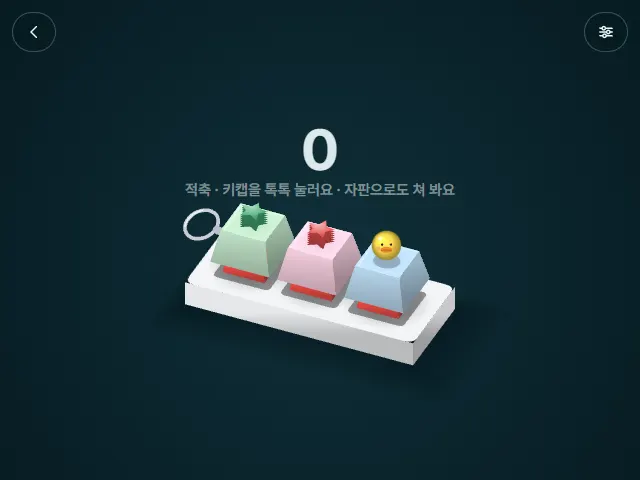
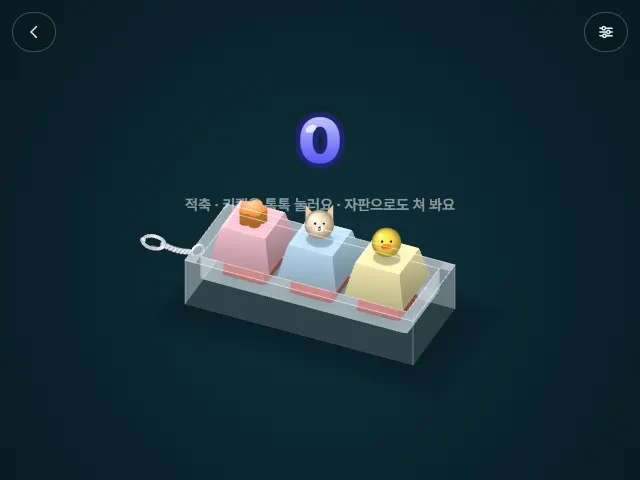
말랑이 점도 3배 · 키캡을 투명 아크릴 케이스에 앉히고 키링을 길게
- 말랑이와 왁뿌의 점도를 세 배로 — 감쇠 21, 슬로우 라이징 7.2초. 눌린 자리가 한참 남는다
- 케이스를 투명 아크릴로 바꾸고 벽이 캡의 아랫부분을 감싸도록. 앞쪽 껍데기는 캡보다 나중에 그려 감싸는 깊이가 보인다
- 스위치를 사진대로 — 우유빛 받침 + 십자 스템 + 맑은 덮개. 받침이 축 색이라 캡 아래 띠로 어떤 축인지 보인다
- 키링을 고리·볼 체인 여덟 알·랍스터 클래스프로 길게

Changed region(s): [[0.2188, 0.2188, 0.7188, 0.7812]]

diff --git a/lib/engines/KeycapEngine.ts b/lib/engines/KeycapEngine.ts
@@ -37,8 +37,12 @@ const SWITCH_NAME: Record<SwitchKind, string> = { red: "적축", blue: "청축",
 // 오블리크 투영 — 카메라가 앞·오른쪽·위에서 본다
 const TH = 0.42, CT = Math.cos(TH), ST = Math.sin(TH), FL = 0.6;
 // 키 하나의 치수 (키 간격 = 1)
-const CAP_B = 0.44, CAP_T = 0.33, CAP_H = 0.4, CAP_Z = 0.2, TRAVEL = 0.15;
+const CAP_B = 0.44, CAP_T = 0.33, CAP_H = 0.4, CAP_Z = 0.24, TRAVEL = 0.12;
 const CASE_H = 0.3, CASE_PAD = 0.2;
+/** 케이스 벽이 바닥판 위로 솟은 높이 — 이만큼 키캡을 감싼다 (2026-09-13 사용자 사진) */
+const RIM = 0.3;
+/** 투명 아크릴 — 축이 비쳐 보이라고 케이스를 통째로 이 재질로 (2026-09-13 사용자) */
+const ACRYL = "#dfe9f0";
 
 export const createKeycapEngine: EngineFactory = (canvas, ctx0) => {
   const c = createCanvas2D(canvas);
@@ -58,7 +62,6 @@ export const createKeycapEngine: EngineFactory = (canvas, ctx0) => {
   }
   let keys: Key[] = [];
   let cols = 1, rows = 1, S = 80, cx = 0, cy = 0;
-  let caseColor = "#f4f5f7";
   let total = 0;
   let ledMix = led ? 1 : 0;
   const waves: Wave[] = [];
@@ -106,7 +109,6 @@ export const createKeycapEngine: EngineFactory = (canvas, ctx0) => {
   };
   const shuffle = () => {
     keys = [];
-    caseColor = pick(["#f4f5f7", "#f4f5f7", "#22262b", "rgba(230,240,246,0.55)"]);
     setCount(count);
   };
   const fit = () => {
@@ -186,6 +188,11 @@ export const createKeycapEngine: EngineFactory = (canvas, ctx0) => {
     const [r, g, b] = rgbOf(col);
     return `rgba(${clamp(r * k, 0, 255) | 0},${clamp(g * k, 0, 255) | 0},${clamp(b * k, 0, 255) | 0},${a})`;
   };
+  /** 축 색을 우유빛에 섞는다 — 받침처럼 "무슨 축인지" 만 알려 주면 되는 자리 */
+  const milky = (col: string, t: number) => {
+    const A = rgbOf(col), B = rgbOf("#f7fafc");
+    return `rgb(${lerp(A[0], B[0], t) | 0},${lerp(A[1], B[1], t) | 0},${lerp(A[2], B[2], t) | 0})`;
+  };
   const path = (pts: [number, number][]) => { ctx.beginPath(); pts.forEach((p, i) => (i === 0 ? ctx.moveTo(p[0], p[1]) : ctx.lineTo(p[0], p[1]))); ctx.closePath(); };
   const quad = (pts: [number, number][], fill: string | CanvasGradient) => { path(pts); ctx.fillStyle = fill; ctx.fill(); };
   /** 위→아래로 옅게 어두워지는 옆면 — 평면 한 색보다 둥글게 읽힌다 */
@@ -220,6 +227,19 @@ export const createKeycapEngine: EngineFactory = (canvas, ctx0) => {
     ctx.globalAlpha = 1;
     return { T, B };
   };
+  /** 직사각 기둥 — 위아래 같은 굵기. 십자 스템의 두 막대에 쓴다 */
+  const boxPrism = (x: number, y: number, z0: number, wx: number, wy: number, h: number, col: string, alpha = 1) => {
+    const B = [P(x - wx, y - wy, z0), P(x + wx, y - wy, z0), P(x + wx, y + wy, z0), P(x - wx, y + wy, z0)];
+    const T = [P(x - wx, y - wy, z0 + h), P(x + wx, y - wy, z0 + h), P(x + wx, y + wy, z0 + h), P(x - wx, y + wy, z0 + h)];
+    ctx.globalAlpha = alpha;
+    quad([B[0], B[1], T[1], T[0]], shade(col, 0.95));
+    quad([B[0], B[3], T[3], T[0]], shade(col, 0.9));
+    quad([B[1], B[2], T[2], T[1]], shade(col, 0.72));
+    quad([B[3], B[2], T[2], T[3]], shade(col, 0.86));
+    quad(T, shade(col, 1.06));
+    ctx.globalAlpha = 1;
+  };
+
   const roundRectPath = (g: CanvasRenderingContext2D, x: number, y: number, w: number, h: number, r: number) => {
     g.beginPath(); g.moveTo(x + r, y); g.lineTo(x + w - r, y); g.quadraticCurveTo(x + w, y, x + w, y + r);
     g.lineTo(x + w, y + h - r); g.quadraticCurveTo(x + w, y + h, x + w - r, y + h); g.lineTo(x + r, y + h);
@@ -306,22 +326,36 @@ export const createKeycapEngine: EngineFactory = (canvas, ctx0) => {
       g.fillStyle = "#3a2a24"; g.beginPath(); g.arc(-s * 0.12, -s * 0.02, s * 0.04, 0, TAU); g.arc(s * 0.12, -s * 0.02, s * 0.04, 0, TAU); g.arc(0, s * 0.1, s * 0.045, 0, TAU); g.fill();
     }
   };
-  /** 스위치 — 하우징(우유빛 상자) + 축 색 스템 (+ 스프링). 캡 아래 틈으로 보인다 */
-  const drawSwitch = (k: Key, press: number, full: boolean) => {
+  /**
+   * 스위치 — 사용자 사진(체리 MX 계열)을 따른다.
+   *   · 아랫집: 우유빛 불투명 받침 + 금속 접점 한 조각
+   *   · **십자 스템**: 축 색 막대 둘을 겹쳐 + 모양. 캡 밑까지 길게 올라간다
+   *   · 윗집: **맑은 덮개**를 스템 위에 반투명으로 덮는다 — 그래야 색이 비쳐 어떤 축인지 보인다 (2026-09-13 사용자)
+   */
+  const drawSwitch = (k: Key, press: number) => {
     const stemCol = SWITCH_COLOR[sw];
-    if (full) {
-      frustum(k.gx, k.gy, 0.02, 0.3, 0.28, 0.12, sw === "topre" ? "#f1eef8" : "#e9eef1", 0.9);
-      const [sx, sy] = P(k.gx, k.gy, 0.14);
-      for (let j = 0; j < 3; j++) { ctx.strokeStyle = "rgba(120,130,140,0.55)"; ctx.lineWidth = 1; ctx.beginPath(); ctx.ellipse(sx, sy - j * S * 0.03 - S * 0.02, S * 0.1, S * 0.035, 0, 0, TAU); ctx.stroke(); }
-    }
-    // 불투명 캡 아래에서는 하우징 자체를 축 색으로 — 캡과 케이스 사이 틈으로 색이 보인다 (2026-09-12 사용자: 축 색이 보여야)
-    if (!full) frustum(k.gx, k.gy, 0.02, 0.31, 0.29, 0.12, sw === "topre" ? "#efe8fb" : shade(stemCol, 1.12), 1);
-    const zt = CAP_Z + 0.06 - press * TRAVEL;
+    const zt = CAP_Z + 0.08 - press * TRAVEL;
+    // 받침 — 축 색을 섞은 우유빛. 캡 아래로 이 띠가 보여 어떤 축인지 알 수 있다 (2026-09-13 사용자)
+    boxPrism(k.gx, k.gy, 0.005, 0.3, 0.3, 0.14, milky(stemCol, 0.04), 1);
+    // 금속 접점 — 받침 안에서 반짝
+    const [mx, my] = P(k.gx - 0.1, k.gy + 0.04, 0.145);
+    ctx.fillStyle = "rgba(196, 204, 212, 0.9)";
+    ctx.fillRect(mx - S * 0.03, my - S * 0.05, S * 0.06, S * 0.05);
     if (sw === "topre") {
-      const [dx, dy] = P(k.gx, k.gy, 0.1);
+      const [dx, dy] = P(k.gx, k.gy, 0.2);
       ctx.fillStyle = stemCol; ctx.beginPath(); ctx.ellipse(dx, dy - S * 0.05, S * 0.2, S * 0.16, 0, 0, TAU); ctx.fill();
       ctx.fillStyle = "rgba(255,255,255,0.25)"; ctx.beginPath(); ctx.ellipse(dx - S * 0.06, dy - S * 0.1, S * 0.07, S * 0.04, 0, 0, TAU); ctx.fill();
-    } else frustum(k.gx, k.gy, 0.1, 0.13, 0.12, zt - 0.1, stemCol, 1);
+    } else {
+      const h = Math.max(0.04, zt - 0.145);
+      boxPrism(k.gx, k.gy, 0.145, 0.17, 0.055, h, stemCol, 1);
+      boxPrism(k.gx, k.gy, 0.145, 0.055, 0.17, h, stemCol, 1);
+    }
+    // 맑은 덮개 — 스템 색이 비친다. 너무 짙으면 축 색이 사라지니 아주 옅게
+    boxPrism(k.gx, k.gy, 0.14, 0.29, 0.29, 0.1, "#eaf1f5", 0.28);
+    const [ex, ey] = P(k.gx - 0.29, k.gy - 0.29, 0.185);
+    const [ex2] = P(k.gx + 0.29, k.gy - 0.29, 0.185);
+    ctx.strokeStyle = "rgba(255,255,255,0.65)"; ctx.lineWidth = Math.max(1, S * 0.012);
+    ctx.beginPath(); ctx.moveTo(ex, ey); ctx.lineTo(ex2, ey); ctx.stroke();
   };
 
   const hueOf = (i: number, t: number) => (t * 40 + i * 30) % 360;
@@ -404,24 +438,44 @@ export const createKeycapEngine: EngineFactory = (canvas, ctx0) => {
     // 숫자 아래에는 축 이름만 — "번 눌렀어요" 는 숫자와 떨어져 있어 어색했다 (2026-09-13 사용자)
     ctx.fillText(total === 0 ? `${SWITCH_NAME[sw]} · 키캡을 톡톡 눌러요 · 자판으로도 쳐 봐요` : SWITCH_NAME[sw], c.w / 2, topY + baseSize * 0.72 + 14);
 
-    // 케이스
+    /*
+     * 케이스 — **투명 아크릴**. 바닥판(z 0) 위로 벽이 RIM 만큼 솟아 키캡의 아랫부분을 감싼다.
+     * 뒤·왼쪽 껍데기는 키캡보다 먼저, 앞·오른쪽 껍데기는 **키캡보다 나중에** 그린다 — 그래야 캡이 케이스 안에
+     * 들어앉은 것으로 보이고, 반투명이라 그 너머로 스위치와 캡 밑동이 비친다 (2026-09-13 사용자).
+     */
     const hx = cols / 2 + CASE_PAD, hy = rows / 2 + CASE_PAD;
-    const clearCase = caseColor.startsWith("rgba");
+    const ihx = cols / 2 + 0.04, ihy = rows / 2 + 0.04;
+    const wallY = (y: number, x0: number, x1: number, za: number, zb: number, fill: string) => quad([P(x0, y, za), P(x1, y, za), P(x1, y, zb), P(x0, y, zb)], fill);
+    const wallX = (x: number, y0: number, y1: number, za: number, zb: number, fill: string) => quad([P(x, y0, za), P(x, y1, za), P(x, y1, zb), P(x, y0, zb)], fill);
+    const flat = (x0: number, y0: number, x1: number, y1: number, z: number, fill: string) => quad([P(x0, y0, z), P(x1, y0, z), P(x1, y1, z), P(x0, y1, z)], fill);
+
     for (let k = 6; k >= 1; k--) {
       const g = k * 0.05;
       quad([P(-hx - g, -hy - g, -CASE_H), P(hx + g * 2.4, -hy - g, -CASE_H), P(hx + g * 2.4, hy + g * 2.2, -CASE_H), P(-hx - g, hy + g * 2.2, -CASE_H)], "rgba(0, 8, 12, 0.07)");
     }
-    ctx.globalAlpha = clearCase ? 0.55 : 1;
-    quad([P(hx, -hy, -CASE_H), P(hx, hy, -CASE_H), P(hx, hy, 0), P(hx, -hy, 0)], sideGrad([P(hx, -hy, 0), P(hx, hy, 0)], [P(hx, -hy, -CASE_H), P(hx, hy, -CASE_H)], caseColor, clearCase ? 0.9 : 0.74));
-    quad([P(-hx, hy, -CASE_H), P(hx, hy, -CASE_H), P(hx, hy, 0), P(-hx, hy, 0)], sideGrad([P(-hx, hy, 0), P(hx, hy, 0)], [P(-hx, hy, -CASE_H), P(hx, hy, -CASE_H)], caseColor, clearCase ? 0.95 : 0.86));
+    // 뒤·왼쪽 껍데기 + 윗테
+    ctx.globalAlpha = 0.5;
+    wallY(-hy, -hx, hx, -CASE_H, RIM, shade(ACRYL, 0.7));
+    wallX(-hx, -hy, hy, -CASE_H, RIM, shade(ACRYL, 0.78));
+    flat(-hx, -hy, hx, -ihy, RIM, shade(ACRYL, 1.02));
+    flat(-hx, -ihy, -ihx, hy, RIM, shade(ACRYL, 0.98));
+    ctx.globalAlpha = 0.6;
+    wallY(-ihy, -ihx, ihx, 0, RIM, shade(ACRYL, 0.88));
+    wallX(-ihx, -ihy, ihy, 0, RIM, shade(ACRYL, 0.93));
+    ctx.globalAlpha = 1;
+    // 바닥판 — 스위치 소켓·핀·LED
     withTop(0, 0, 0, () => {
-      roundRectPath(ctx, -hx, -hy, hx * 2, hy * 2, 0.14); ctx.fillStyle = shade(caseColor, 1); ctx.fill();
-      ctx.strokeStyle = "rgba(255,255,255,0.35)"; ctx.lineWidth = 0.015; ctx.stroke();
+      roundRectPath(ctx, -ihx, -ihy, ihx * 2, ihy * 2, 0.07);
+      ctx.fillStyle = "rgba(226, 235, 242, 0.6)"; ctx.fill();
       for (let i = 0; i < keys.length; i++) {
         const k = keys[i];
-        roundRectPath(ctx, k.gx - 0.42, k.gy - 0.42, 0.84, 0.84, 0.08); ctx.fillStyle = clearCase ? "rgba(20,30,36,0.35)" : shade(caseColor, 0.6); ctx.fill();
+        roundRectPath(ctx, k.gx - 0.33, k.gy - 0.33, 0.66, 0.66, 0.05);
+        ctx.fillStyle = shade(SWITCH_COLOR[sw], 0.55, 0.5); ctx.fill();
+        ctx.fillStyle = "rgba(206, 178, 108, 0.85)";
+        ctx.fillRect(k.gx - 0.14, k.gy + 0.08, 0.07, 0.05);
+        ctx.fillRect(k.gx + 0.08, k.gy - 0.03, 0.06, 0.05);
         const ao = ctx.createRadialGradient(k.gx, k.gy, 0.2, k.gx, k.gy, 0.62);
-        ao.addColorStop(0, `rgba(0,0,0,${0.22 + k.press * 0.18})`); ao.addColorStop(1, "rgba(0,0,0,0)");
+        ao.addColorStop(0, `rgba(0,0,0,${0.2 + k.press * 0.18})`); ao.addColorStop(1, "rgba(0,0,0,0)");
         ctx.fillStyle = ao; ctx.fillRect(k.gx - 0.7, k.gy - 0.7, 1.4, 1.4);
         const glow = ledMix * (0.5 + 0.5 * Math.sin(t * 1.4 + i)) + k.flash * 1.5;
         if (glow > 0.02) {
@@ -431,16 +485,6 @@ export const createKeycapEngine: EngineFactory = (canvas, ctx0) => {
         }
       }
     });
-    ctx.globalAlpha = 1;
-    // 키링
-    {
-      const [rx, ry] = P(-hx - 0.05, -hy - 0.05, -CASE_H * 0.4);
-      ctx.strokeStyle = "#c9ced4"; ctx.lineWidth = Math.max(2, S * 0.05);
-      ctx.beginPath(); ctx.ellipse(rx - S * 0.32, ry - S * 0.1, S * 0.24, S * 0.18, -0.5, 0, TAU); ctx.stroke();
-      ctx.strokeStyle = "#eef1f4"; ctx.lineWidth = Math.max(1, S * 0.02);
-      ctx.beginPath(); ctx.ellipse(rx - S * 0.32, ry - S * 0.1, S * 0.24, S * 0.18, -0.5, 3.6, 5.2); ctx.stroke();
-      for (let j = 0; j < 3; j++) { ctx.strokeStyle = "#b8bec6"; ctx.lineWidth = Math.max(2, S * 0.045); ctx.beginPath(); ctx.ellipse(rx - S * 0.1 + j * S * 0.05, ry + j * S * 0.02 - S * 0.02, S * 0.05, S * 0.035, 0.6, 0, TAU); ctx.stroke(); }
-    }
 
     // 키 — 먼 것부터
     const order = keys.map((k, i) => i).sort((a, b) => depth(keys[a].gx, keys[a].gy) - depth(keys[b].gx, keys[b].gy));
@@ -451,7 +495,7 @@ export const createKeycapEngine: EngineFactory = (canvas, ctx0) => {
       const glow = ledMix * (0.5 + 0.5 * Math.sin(t * 1.4 + i)) + k.flash * 1.5;
       const seeThrough = L.style === "clear" || L.style === "pudding";
 
-      drawSwitch(k, k.press, seeThrough);
+      drawSwitch(k, k.press);
       if (seeThrough && glow > 0.02) {
         const [sx, sy] = P(k.gx, k.gy, 0.16);
         const g = ctx.createRadialGradient(sx, sy, 0, sx, sy, S * 0.55);
@@ -565,6 +609,66 @@ export const createKeycapEngine: EngineFactory = (canvas, ctx0) => {
         g.addColorStop(0, `hsla(${hh} 100% 65% / ${clamp(glow * 0.35, 0, 1)})`); g.addColorStop(1, `hsla(${hh} 100% 65% / 0)`);
         ctx.fillStyle = g; ctx.fillRect(gx - S * 0.6, gy - S * 0.3, S * 1.2, S * 0.5);
       }
+    }
+
+    // 앞·오른쪽 껍데기 — 키캡 **위에** 덮어 감싸고, 반투명이라 캡 밑동과 스위치가 비친다
+    ctx.globalAlpha = 0.16;
+    wallY(ihy, -ihx, ihx, 0, RIM, shade(ACRYL, 1));
+    wallX(ihx, -ihy, ihy, 0, RIM, shade(ACRYL, 0.92));
+    ctx.globalAlpha = 0.3;
+    flat(-hx, ihy, hx, hy, RIM, shade(ACRYL, 1.05));
+    flat(ihx, -hy, hx, ihy, RIM, shade(ACRYL, 1));
+    ctx.globalAlpha = 0.2;
+    wallY(hy, -hx, hx, -CASE_H, RIM, shade(ACRYL, 0.88));
+    wallX(hx, -hy, hy, -CASE_H, RIM, shade(ACRYL, 0.8));
+    ctx.globalAlpha = 1;
+    // 아크릴 모서리 — 빛을 받아 또렷한 선
+    ctx.lineWidth = Math.max(1, S * 0.012); ctx.strokeStyle = "rgba(255,255,255,0.55)";
+    for (const [ex, ey] of [[hx, hy], [ihx, ihy]] as const) {
+      ctx.beginPath();
+      const c1 = P(-ex, -ey, RIM), c2 = P(ex, -ey, RIM), c3 = P(ex, ey, RIM), c4 = P(-ex, ey, RIM);
+      ctx.moveTo(c1[0], c1[1]); ctx.lineTo(c2[0], c2[1]); ctx.lineTo(c3[0], c3[1]); ctx.lineTo(c4[0], c4[1]); ctx.closePath(); ctx.stroke();
+    }
+    ctx.strokeStyle = "rgba(255,255,255,0.3)";
+    for (const [ex, ey] of [[hx, -hy], [hx, hy], [-hx, hy]] as const) {
+      const a = P(ex, ey, RIM), b = P(ex, ey, -CASE_H);
+      ctx.beginPath(); ctx.moveTo(a[0], a[1]); ctx.lineTo(b[0], b[1]); ctx.stroke();
+    }
+
+    /*
+     * 키링 — 사진처럼 **길게**: 케이스에 박힌 작은 고리 → 볼 체인 여덟 알 → 랍스터 클래스프.
+     * 화면 공간에서 그린다 — 금속은 어느 각도에서 봐도 같은 광택이면 된다 (2026-09-13 사용자).
+     */
+    {
+      const metal = (x: number, y: number, r: number) => {
+        const g = ctx.createLinearGradient(x - r, y - r, x + r, y + r);
+        g.addColorStop(0, "#ffffff"); g.addColorStop(0.34, "#b7bec6"); g.addColorStop(0.62, "#eef2f5"); g.addColorStop(1, "#79818b");
+        return g;
+      };
+      const [ax, ay] = P(-hx + 0.04, hy * 0.35, RIM * 0.45);
+      ctx.lineWidth = Math.max(1.8, S * 0.032); ctx.strokeStyle = metal(ax, ay, S * 0.1);
+      ctx.beginPath(); ctx.ellipse(ax - S * 0.05, ay - S * 0.06, S * 0.09, S * 0.062, -0.7, 0, TAU); ctx.stroke();
+      let last: [number, number] = [ax - S * 0.12, ay - S * 0.04];
+      for (let i = 1; i <= 8; i++) {
+        const t2 = i / 8;
+        const bx = ax - S * (0.12 + t2 * 0.4), by = ay - S * (0.04 + t2 * 0.1) + Math.sin(t2 * 3.1) * S * 0.03;
+        ctx.strokeStyle = "#98a0a8"; ctx.lineWidth = Math.max(1, S * 0.011);
+        ctx.beginPath(); ctx.moveTo(last[0], last[1]); ctx.lineTo(bx, by); ctx.stroke();
+        const r = S * 0.04;
+        ctx.fillStyle = metal(bx, by, r); ctx.beginPath(); ctx.arc(bx, by, r, 0, TAU); ctx.fill();
+        ctx.fillStyle = "rgba(255,255,255,0.85)"; ctx.beginPath(); ctx.arc(bx - r * 0.32, by - r * 0.36, r * 0.27, 0, TAU); ctx.fill();
+        last = [bx, by];
+      }
+      ctx.save();
+      ctx.translate(last[0] - S * 0.13, last[1] - S * 0.03); ctx.rotate(-1.35);
+      const LL = S * 0.3, WW = S * 0.17;
+      ctx.lineWidth = Math.max(2, S * 0.048); ctx.strokeStyle = metal(0, 0, LL * 0.6);
+      ctx.beginPath(); ctx.ellipse(0, 0, WW * 0.5, LL * 0.5, 0, 0, TAU); ctx.stroke();
+      ctx.lineWidth = Math.max(1, S * 0.016); ctx.strokeStyle = "rgba(118,126,134,0.9)";
+      ctx.beginPath(); ctx.moveTo(-WW * 0.3, -LL * 0.08); ctx.lineTo(-WW * 0.3, LL * 0.24); ctx.stroke();
+      ctx.fillStyle = metal(0, -LL * 0.5, S * 0.05);
+      ctx.beginPath(); ctx.arc(0, -LL * 0.5, S * 0.037, 0, TAU); ctx.fill();
+      ctx.restore();
     }
   });
 

diff --git a/lib/engines/SlimeEngine.ts b/lib/engines/SlimeEngine.ts
@@ -312,12 +312,12 @@ export const createSlimeEngine: EngineFactory = (canvas, ctx0) => {
     for (let i = dents.length - 1; i >= 0; i--) {
       const d = dents[i];
       if (d.held) {
-        d.depth = Math.min(1, d.depth + dt / (squishy ? 0.25 : 0.35));
+        d.depth = Math.min(1, d.depth + dt / (squishy ? 0.45 : 0.35));
         // 다 잠긴 뒤에도 누르고 있으면 바닥에 닿아 구멍이 난다 (말랑이는 폼이라 뚫리지 않는다)
         if (d.depth >= 1 && !squishy) d.through = Math.min(1, d.through + dt / 0.55);
       } else if (!clay) {
         // 슬라임은 흘러 메워지고, 말랑이는 슬로우 라이징 — 처음엔 천천히, 끝엔 빨리 부푼다
-        d.depth -= squishy ? (dt / 2.4) * (0.35 + (1 - d.depth) * 1.3) : dt / 2.5;
+        d.depth -= squishy ? (dt / 7.2) * (0.35 + (1 - d.depth) * 1.3) : dt / 2.5;
         d.through = Math.max(0, d.through - dt / 1.6);
         if (d.depth <= 0 && d.through <= 0) { dents.splice(i, 1); continue; }
       }
@@ -430,7 +430,8 @@ export const createSlimeEngine: EngineFactory = (canvas, ctx0) => {
         const l = nodes[(i + N - 1) % N], r = nodes[(i + 1) % N], n = nodes[i];
         vxs[i] = n.vx * 0.2 + (l.vx + r.vx) * 0.4; vys[i] = n.vy * 0.2 + (l.vy + r.vy) * 0.4;
       }
-      const dampK = Math.exp(-(clay ? 26 : squishy ? 7 : 10) * hs); // 슬라임 점도 ↑ (2026-09-11 사용자: 너무 흐느적) · 말랑이는 조금 튄다
+      // 점도 = 감쇠. 말랑이는 슬라임의 두 배가 넘게 꾸덕해 눌린 자리가 스프링보다 느리게 돌아온다(과감쇠) — 2026-09-13 사용자: 3배
+      const dampK = Math.exp(-(clay ? 26 : squishy ? 21 : 10) * hs);
       for (let i = 0; i < N; i++) {
         const n = nodes[i];
         n.vx = vxs[i] * dampK; n.vy = vys[i] * dampK;

diff --git a/lib/engines/WaxEngine.ts b/lib/engines/WaxEngine.ts
@@ -348,8 +348,8 @@ export const createWaxEngine: EngineFactory = (canvas, ctx0) => {
     // 자국 — 다 잠긴 뒤에도 누르고 있으면 바닥에 닿아 뚫린다. 손을 떼면 말랑이라 천천히 부풀어 사라진다
     for (let i = dents.length - 1; i >= 0; i--) {
       const d = dents[i];
-      if (!d.held) { d.depth -= (dt / 2.4) * (0.35 + (1 - d.depth) * 1.3); if (d.depth <= 0) dents.splice(i, 1); continue; }
-      d.depth = Math.min(1, d.depth + dt / 0.3);
+      if (!d.held) { d.depth -= (dt / 7.2) * (0.35 + (1 - d.depth) * 1.3); if (d.depth <= 0) dents.splice(i, 1); continue; }
+      d.depth = Math.min(1, d.depth + dt / 0.45);
       if (d.depth >= 1) d.through = Math.min(1, d.through + dt / 0.8);
       const [u, v] = toUV(d.x, d.y);
       if (d.through > 0.5 && d.punched < 1) { d.punched = 1; punch(u, v, (FINGER_R * 0.45) / bw, false); }
@@ -372,7 +372,7 @@ export const createWaxEngine: EngineFactory = (canvas, ctx0) => {
     // 말랑이 — 손이 닿아 있을 때는 손 근처만 움직이고, 떼면 제 모양으로 천천히 부풀어 돌아온다 (슬로우 라이징)
     const touching = [...fingers.values()].some((f) => f.pressed);
     if (!touching) {
-      const k = 1 - damp(1.6, dt);
+      const k = 1 - damp(0.55, dt); // 꾸덕한 말랑이 — 제 모양으로 세 배 천천히 기어 돌아온다 (2026-09-13 사용자)
       for (let i = 0; i < N; i++) { const n = outer[i], r0 = rest[i]; if (!r0) continue; n.vx = 0; n.vy = 0; n.x += (r0.x - n.x) * k; n.y += (r0.y - n.y) * k; }
       bbox();
     } else {
